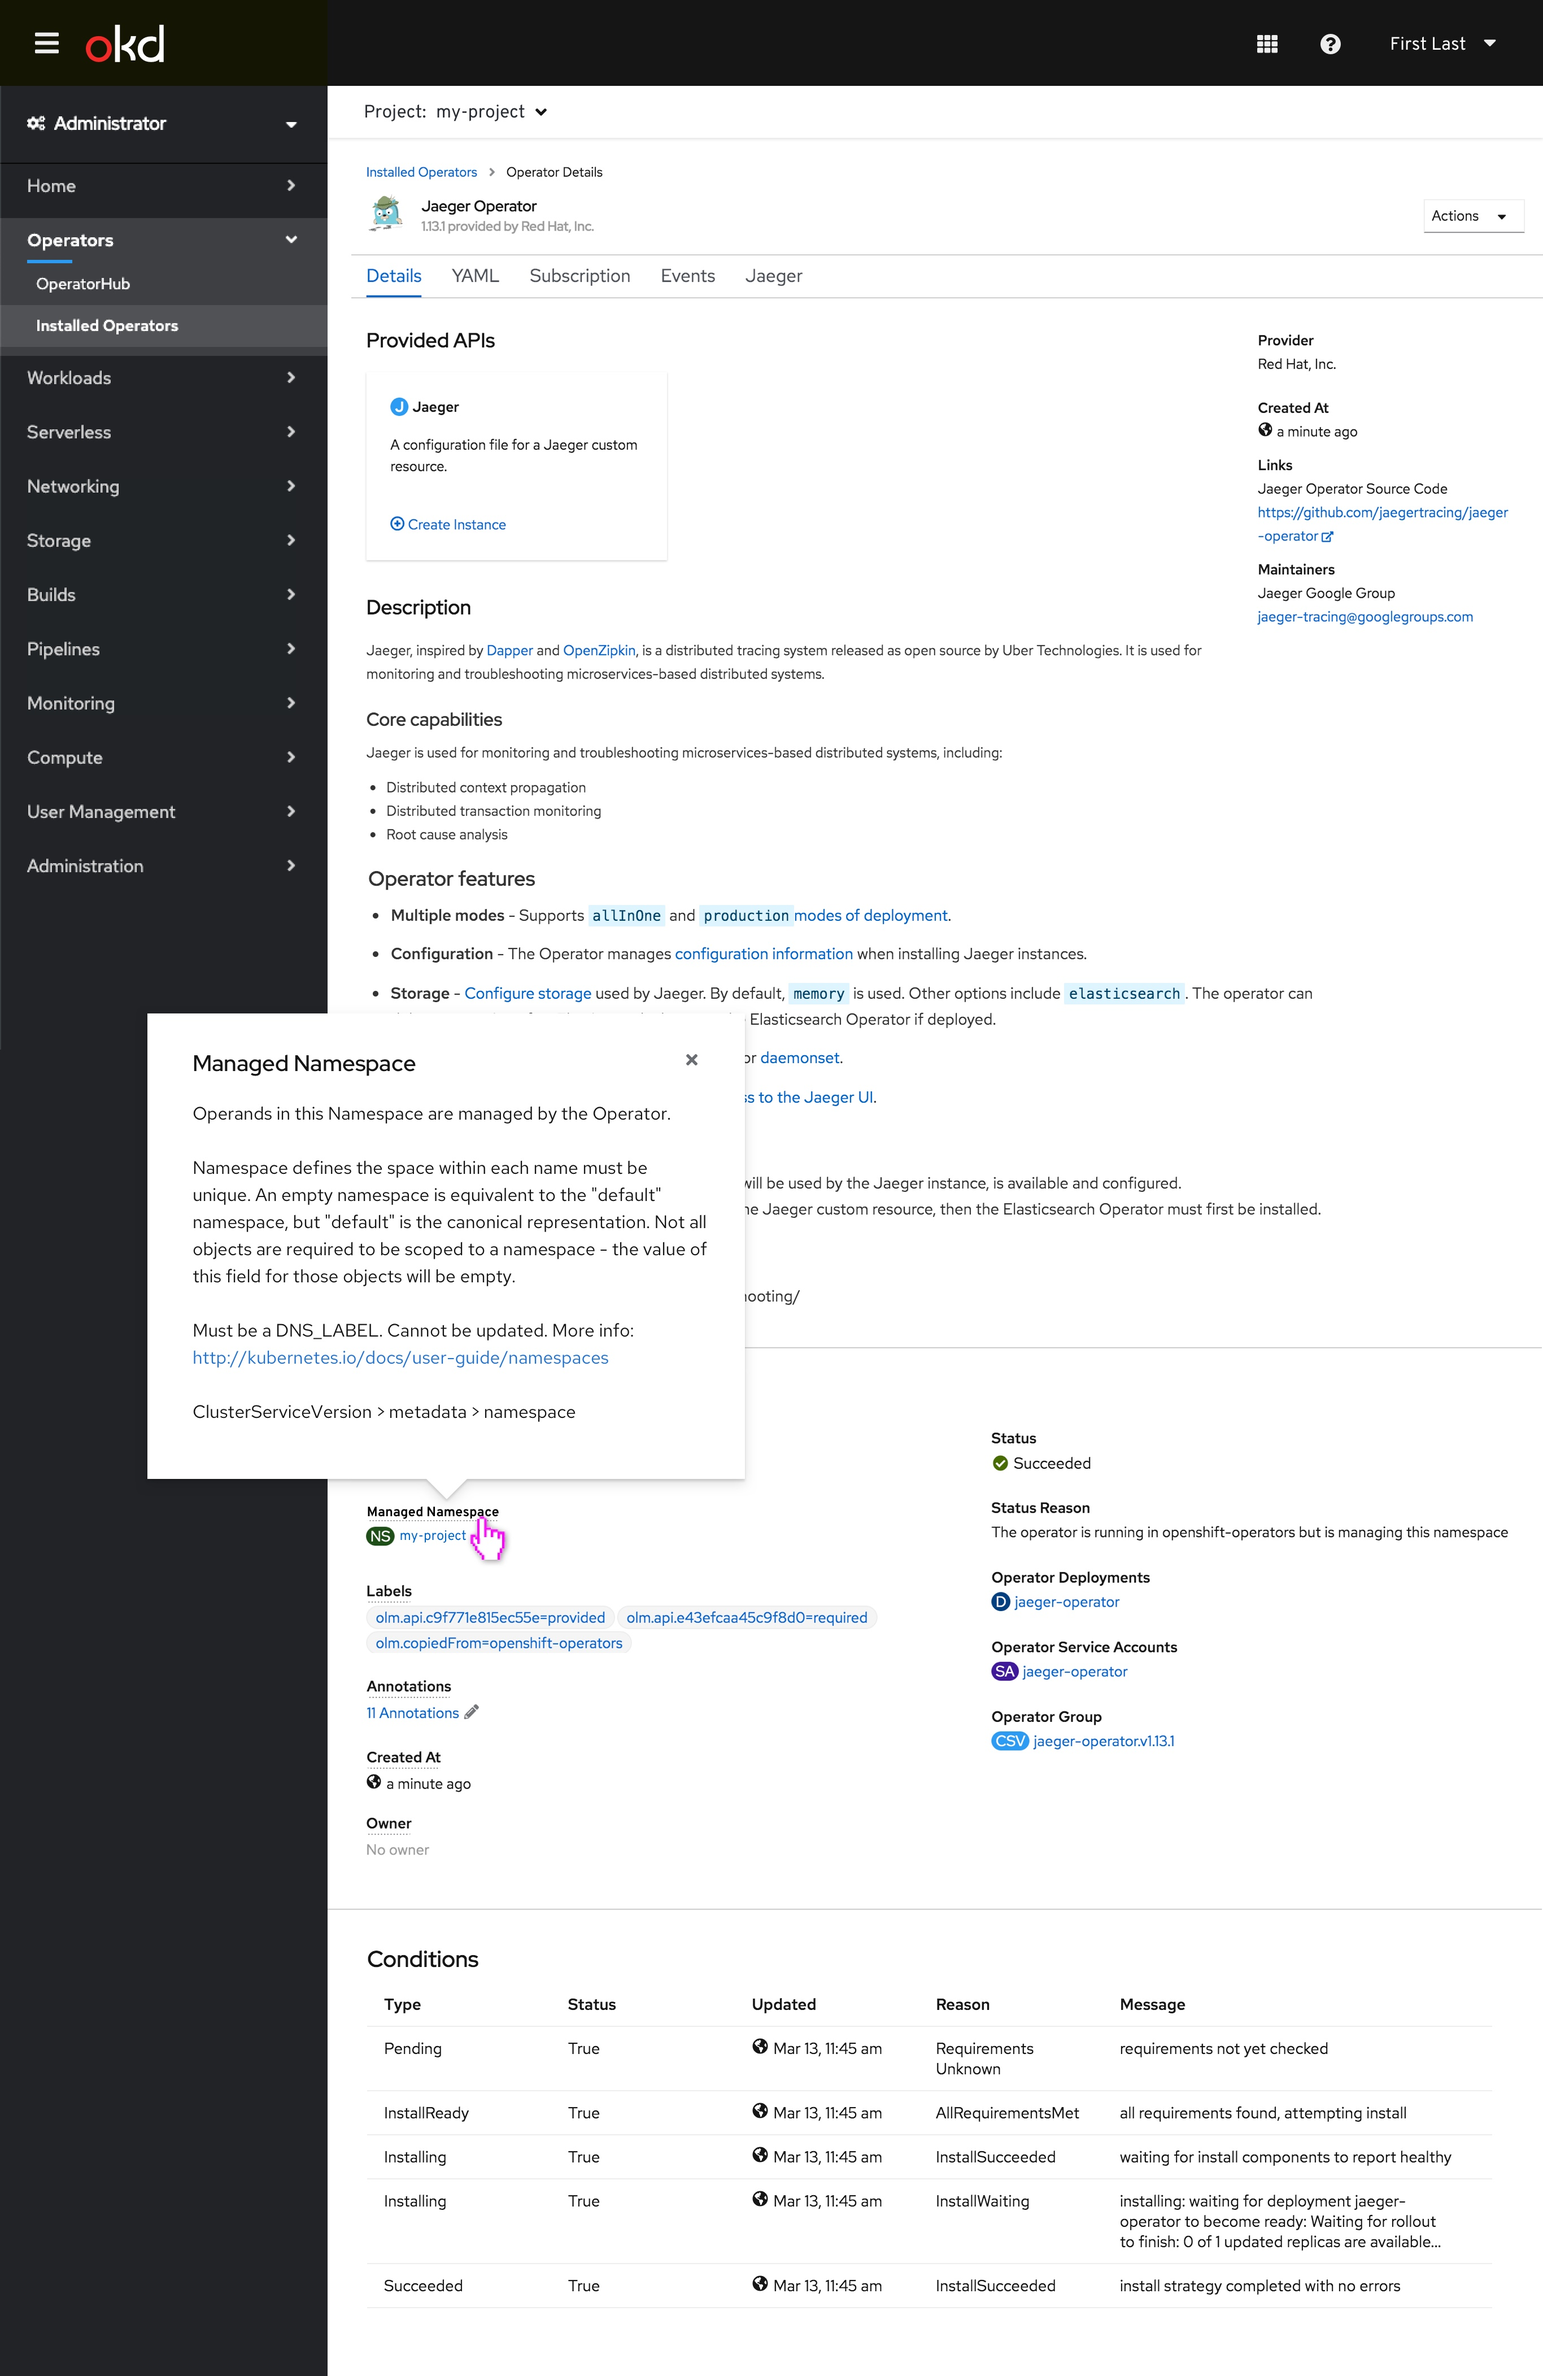
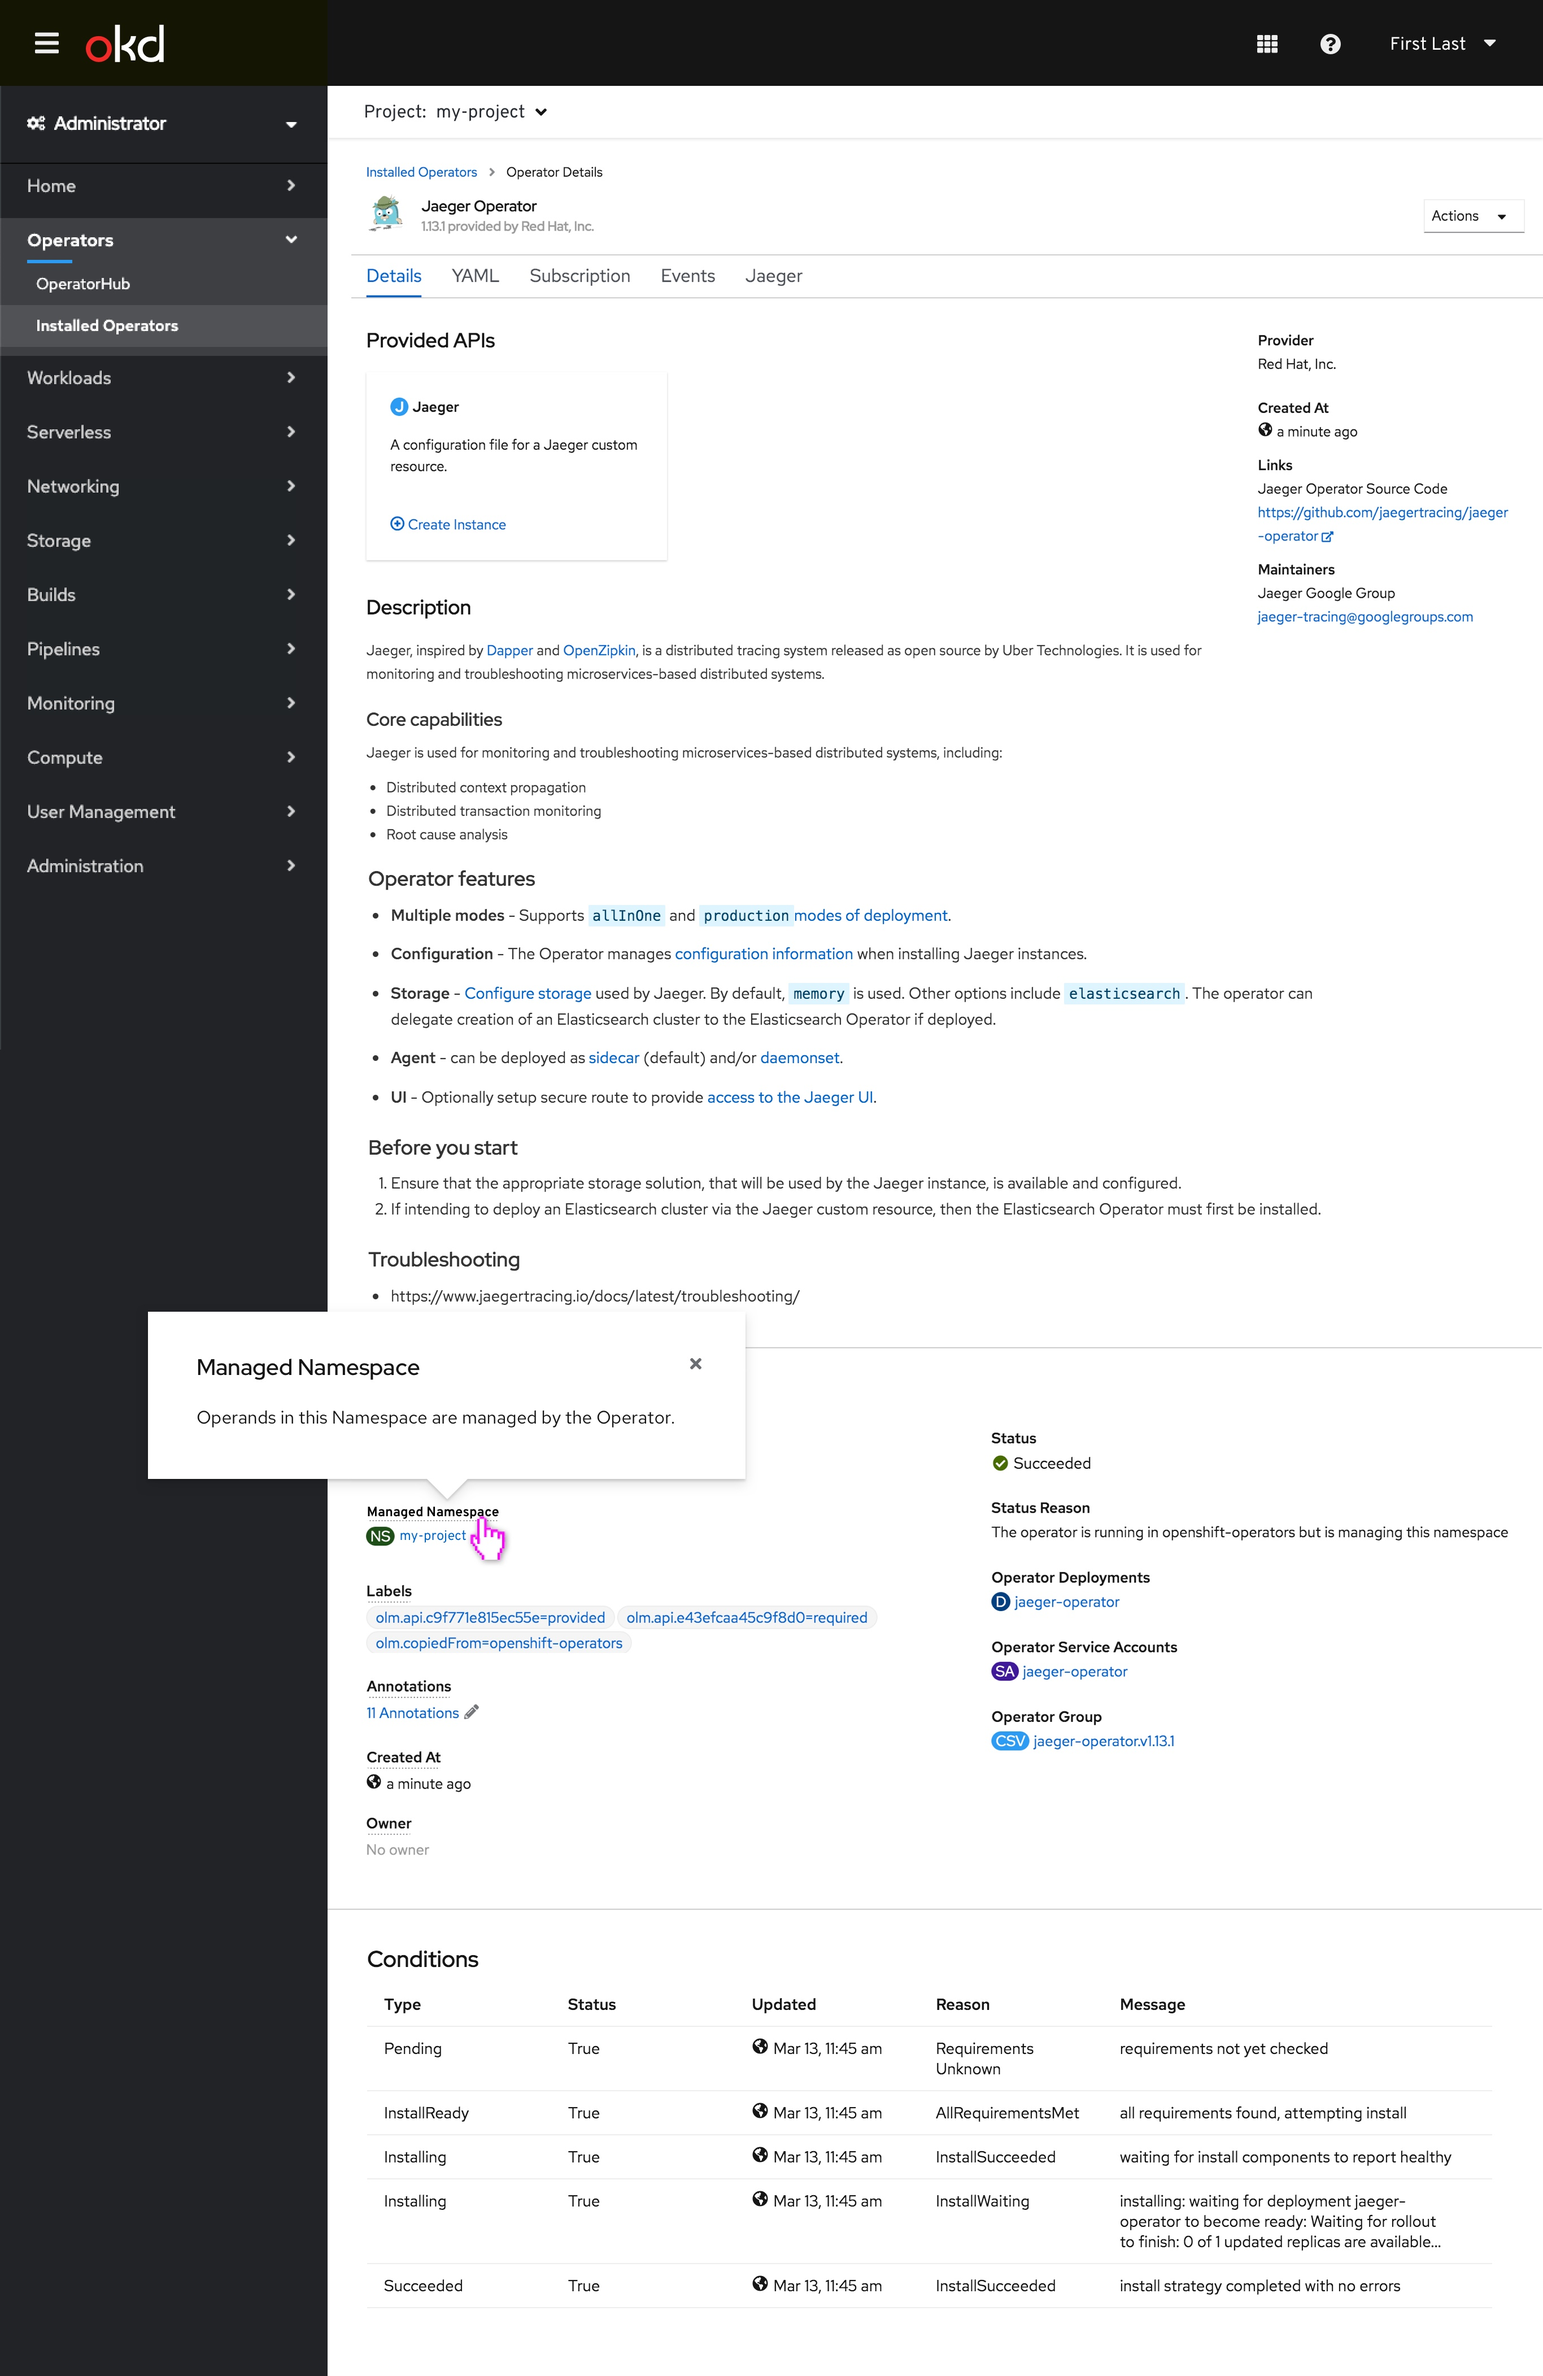
updating 375 mvp

Changed region(s): [[0.0933, 0.4049, 0.4667, 0.5918], [0.3111, 0.5918, 0.3422, 0.6229]]

diff --git a/designs/administrator/olm/list-of-operators/list-of-operators.md b/designs/administrator/olm/list-of-operators/list-of-operators.md
@@ -6,9 +6,9 @@ version: 4.5
 # List of Operators
 
 ## All-projects view
-This is the Installed Operators page where “all-projects” has been selected from the project-selector. Info icons have been added next to the Operator Namespace and Managed Namespaces columns to provide the user more information about what these column titles mean.The user can sort the column via the sort icon (which looks like an arrow). This icon currently lives in the UI and is pre-existing functionality as part of the Namespace column.
-There are a few additions to the flow:
+This is the Installed Operators page where “all-projects” has been selected from the project-selector. Info icons have been added next to the Managed Namespaces column to provide the user more information about what these column titles mean.The user can sort the column via the sort icon (which looks like an arrow). There are a few additions to the flow:
 
+In the Managed Namespaces column there are three different ways the Namespace information can appear.
 
 1. We have introduced the Operator Namespace column. The Operator Namespace column lists the Namespace per Operator where the Operator is installed.
 
@@ -16,61 +16,46 @@ There are a few additions to the flow:
 
   a. “My-project” is representative of a single Namespace.
 
-   b. “All Namespaces” is a text only link that is associated with the Namespaces that fall across all Namespaces.
+  b. “All Namespaces” is a text only link that is associated with the Namespaces that fall across all Namespaces.
 
-   c. Thirdly, there is a multi-project view. For example, the Portworx Operator falls across multiple projects but not all projects, so in this example the Managed Namespaces column will have a popover on click. The Namespace names should be listed underneath as seen in the mockup.
-![all-projects-view](img/all-projects-view.jpg)
+  c. Thirdly, there is a multi-project view. For example, the Portworx Operator falls across multiple projects but not all projects, so in this example the Managed Namespaces column will have a popover on click. The Namespace names should be listed underneath as seen in the mockup.
 
-On the Operator Namespace column, when the user clicks on the blue information icon, a popover should appear that reads “The Namespace where the Operator is installed”.
-![tooltip1-all-projects-operator](img/tooltip-all-projects-operator-namespace1.jpg)
+On the Managed Namespaces column, when the user clicks the the popover it should read “Operands in these Namespace(s) are managed by the Operator”
 
-On the Managed Namespaces column, when the user clicks the the tooltip it should read “Operands in these Namespace(s) are managed by the Operator”.
-![managed-namespace](img/tooltip-all-projects-managed-namespace.jpg)
+![3scale-all-projects-view1](img/3scale-all-projects-view1.jpg)
 
+On this screen the Portworx Operator falls across multiple projects but not all projects, so in this example the Managed Namespace column will have a popover on click.
+![3scale-all-projects-view2](img/3scale-all-projects-view2.jpg)
 
-On this screen the Portworx Operator falls across multiple projects but not all projects, so in this example the Managed Namespaces column will have a popover on click.
-![all-projects-view-portorx](img/all-projects-view-portorx-1.jpg)
-
-Clicking into the 2 Namespaces field, the popover will appear. The Namespace names should be listed underneath as seen in the mockup.
-![popover-all-projects-view](img/popover-all-projects-view.jpg)
+Clicking into the 2 Namespaces field, the popover will appear. The Managed Namespace names should be listed underneath as seen in the mockup.
+![3scale-all-projects-view3](img/3scale-all-projects-view3.jpg)
 
 
 On the all-projects view when the user clicks into the 3scale Operator they will be taken to the Operator Details page.
-![3scale-all-projects-view-2](img/3scale-all-projects-view-2.jpg)
+![3scale-all-projects-view](img/3scale-all-projects-view.jpg)
 
-If the user clicked on an Operator in the list view while the project selector is 'all-projects,' the details view would have the project selector = to that Operator's "Operator Namespace" since we wouldn't have the context of a single Managed Namespace to use. The Namespace field will read Managed Namespace. Zooming in on the interaction of the popover on the CSV Overview section on the Operator Details page:
-![scale-operator-details-tooltip](img/scale-operator-details-tooltip.jpg)
-
+If the user clicked on an Operator in the list view while the project selector is 'all-projects,' the details view would have the project selector = to that Operator's Namespace since we wouldn't have the context of a single Managed Namespace to use. The Namespace field will read Managed Namespace. Zooming in on the interaction of the popover on the CSV Overview section on the Operator Details page:
+![all-projects-operator-details](img/all-projects-operator-details.jpg)
 
 ## Single Project view
 
-On the single project view, the Operator Namespace column does not appear here because the user who has access to “single project” view doesn’t necessarily have the access to “Operator Namespace” but will have access to the “Managed Namespaces” column. This is how this view will look on a single-project view:
+On the single project view, the Namespace column does not appear here because the user who has access to “single project” view doesn’t necessarily have the access to Namespace but will have access to the “Managed Namespaces” column. This is how this view will look on a single-project view:
 ![tooltip-my-project-managed-namespace](img/tooltip-my-project-managed-namespace.jpg)
 
 Clicking into 3scale Operator, on the my-project Installed Operators page, if the user clicked on an Operator in the list view while the project selector is a single Namespace, the details view would also be that same single Namespace.
 ![3scale-single-project-view](img/3scale-single-project-view.jpg)
 
 Here is the in-line Managed Namespace field under the CSV information. The ClusterServiceVersion Overview will always show the "Managed Namespace".
-![3scale-operator-details](img/3scale-all-projects-operator-details.jpg)
-
-## Subscription page
-
-On the Subscription page, we’ve updated the copy to say Operator Namespace. Subscription Overview would always show the "Operator Namespace."
-![3scale-subscription](img/3scale-subscription.jpg)
-
-
-When user clicks on info icon, the tooltip appears:
-![3scale-subscription-tooltip](img/3scale-subscription-tooltip.jpg)
+![all-projects-operator-details](img/all-projects-operator-details.jpg)
 
 ## Select Operator with All Namespaces under Managed Namespaces
 
 User selects Jaeger Operator:
-![img/Jaeger-my-project-view](img/Jaeger-my-project-view.jpg)
+![Jaeger-my-project-view](img/Jaeger-my-project-view.jpg)
 
 In the second example, when a user clicks into the Jaeger Operator they will be taken to the Operator Details page, and the Namespace field should read Managed Namespace.
-![img/Jaeger-details](img/Jaeger-details.jpg)
+![Jaeger-details](img/Jaeger-details.jpg)
 
-## Edge case design - What if there are more than 10 namespaces?
-
+## Edge case design - What if there are more than 10 Namespaces
 In the event that there are more than 10 namespaces for an associated Operator in the Managed Namespaces column, the Managed Namespaces should appear in a modal. The PF modal behavior allows for scrolling, so scrolling through the list of Managed Namespaces will suffice for viewing a long list of Managed Namespaces. In this example, we have clicked into the 20 namespaces link associated with the Portworx Operator.
-![img/modal-all-projects-view](img/modal-all-projects-view.jpg)
+![modal-all-projects-view](img/modal-all-projects-view.jpg)
